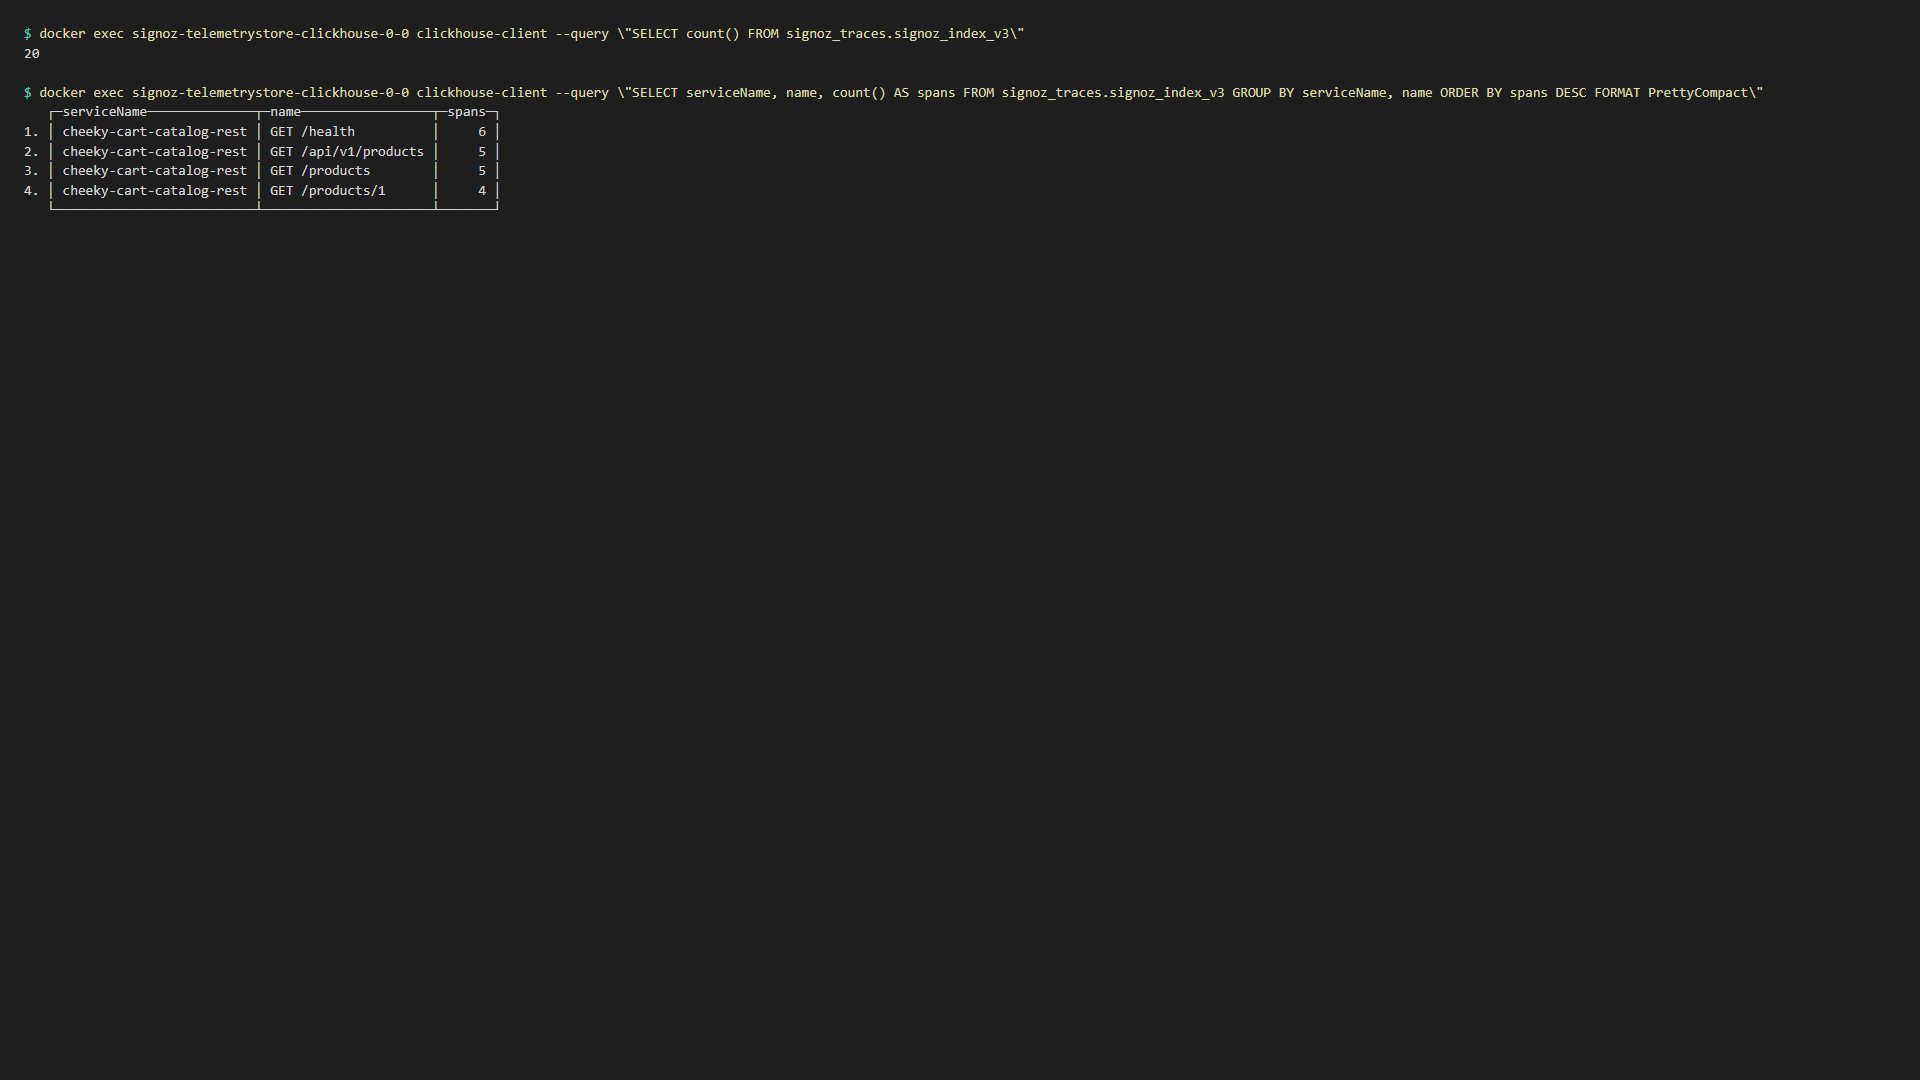
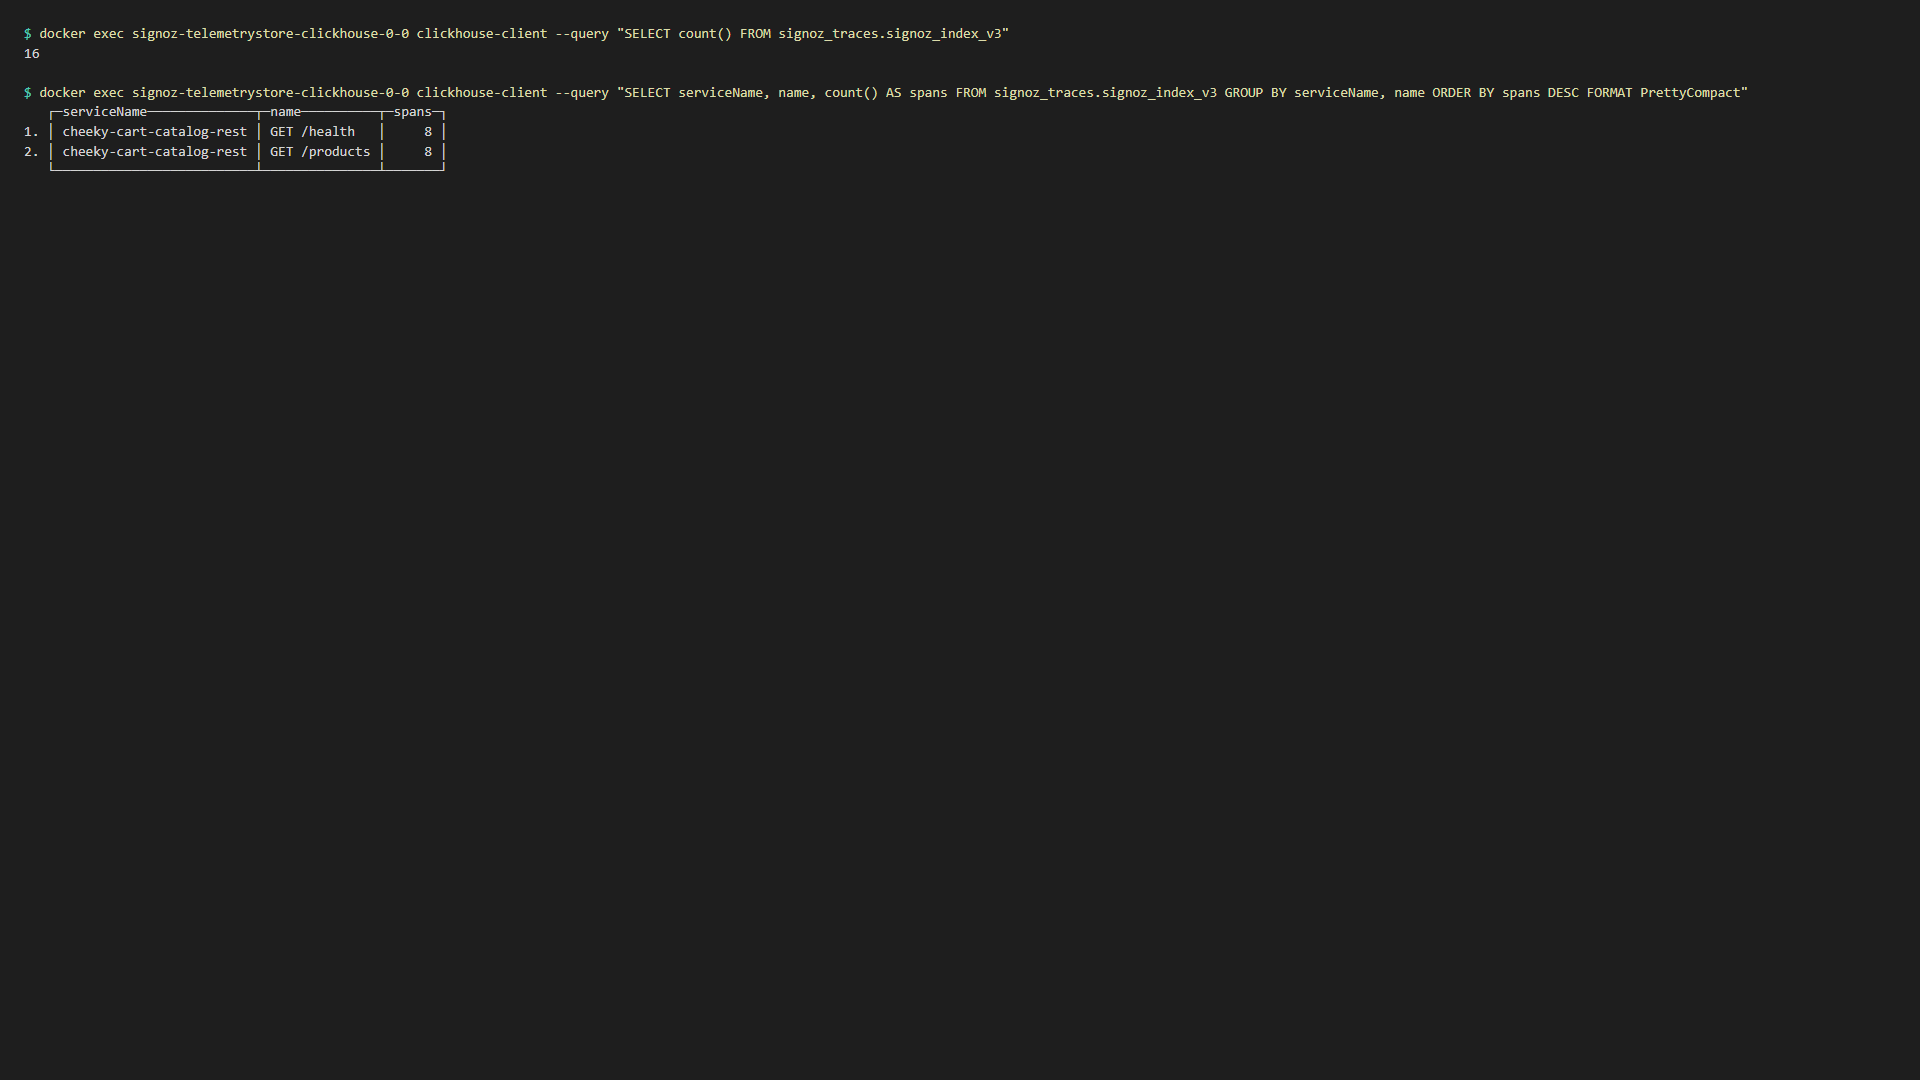
Refresh SigNoz OTLP verification for 2026-07-30 retest
Update verification doc with 16-span ClickHouse proof and fresh 1920x1080 UI screenshots.

Changed region(s): [[0.3125, 0.0306, 0.9062, 0.0917], [0.0312, 0.0917, 0.25, 0.1833]]

diff --git a/docs/signoz-otlp-verification.md b/docs/signoz-otlp-verification.md
@@ -1,6 +1,6 @@
 # SigNoz OTLP verification (L09 HW7)
 
-Captured **2026-07-24** after fixing the ingester **nop-pipeline** issue (root user org bootstrap in `compose.override.yaml`).
+Captured **2026-07-30** after fixing the ingester **nop-pipeline** issue (root user org bootstrap in `compose.override.yaml`).
 
 Screenshots taken at **1920×1080** (maximized browser viewport).
 
@@ -8,10 +8,12 @@ Screenshots taken at **1920×1080** (maximized browser viewport).
 
 | Item | Value |
 |------|-------|
-| Stack | SigNoz Foundry via WSL native Docker (`scripts/start-signoz-wsl.ps1`) |
+| Stack | SigNoz Foundry via WSL native Docker |
 | SigNoz UI | http://localhost:8080 |
-| Catalog REST | WSL `:8090`, `OTEL_EXPORTER_OTLP_ENDPOINT=127.0.0.1:4317`, `OTEL_EXPORTER_OTLP_PROTOCOL=grpc` |
+| Catalog REST | Windows `:8090`, `OTEL_EXPORTER_OTLP_ENDPOINT=127.0.0.1:4317`, `OTEL_EXPORTER_OTLP_PROTOCOL=grpc` |
 | Service name | `cheeky-cart-catalog-rest` |
+
+**Prerequisite:** copy `compose.override.yaml` into `docker/signoz-foundry/pours/deployment/` before `docker compose up -d`, then `docker restart signoz-ingester-1`.
 
 ## SigNoz UI — Services list
 
@@ -40,7 +42,7 @@ Same data visible in ClickHouse (`signoz_traces.signoz_index_v3`):
 
 ```sql
 SELECT count() AS total_traces FROM signoz_traces.signoz_index_v3
--- 20
+-- 16
 
 SELECT serviceName, name, count() AS spans
 FROM signoz_traces.signoz_index_v3
@@ -49,15 +51,11 @@ ORDER BY spans DESC
 ```
 
 ```
-   ┌─serviceName──────────────┬─name─────────────────┬─spans─┐
-1. │ cheeky-cart-catalog-rest │ GET /health          │     6 │
-2. │ cheeky-cart-catalog-rest │ GET /api/v1/products │     5 │
-3. │ cheeky-cart-catalog-rest │ GET /products        │     5 │
-4. │ cheeky-cart-catalog-rest │ GET /products/1      │     4 │
-   └──────────────────────────┴──────────────────────┴───────┘
+   ┌─serviceName──────────────┬─name──────────┬─spans─┐
+1. │ cheeky-cart-catalog-rest │ GET /health   │     8 │
+2. │ cheeky-cart-catalog-rest │ GET /products │     8 │
+   └──────────────────────────┴───────────────┴───────┘
 ```
-
-(`GET /api/v1/products` rows are from an initial smoke test with a wrong path; catalog routes are `/products` and `/products/{id}`.)
 
 </details>
 
@@ -80,8 +78,16 @@ pipelines:
 ## Reproduce
 
 ```powershell
-.\scripts\start-signoz-wsl.ps1
-wsl -d Ubuntu-22.04 sh scripts/run-rest-wsl.sh
+cd docker/signoz-foundry/pours/deployment
+docker compose up -d
+# ensure compose.override.yaml (SIGNOZ_USER_ROOT_*) is present
+docker restart signoz-ingester-1
+
+cd ../../..
+$env:PORT="8090"
+$env:OTEL_EXPORTER_OTLP_ENDPOINT="127.0.0.1:4317"
+$env:OTEL_EXPORTER_OTLP_PROTOCOL="grpc"
+go run ./cmd/rest
 curl http://localhost:8090/products
 ```
 
